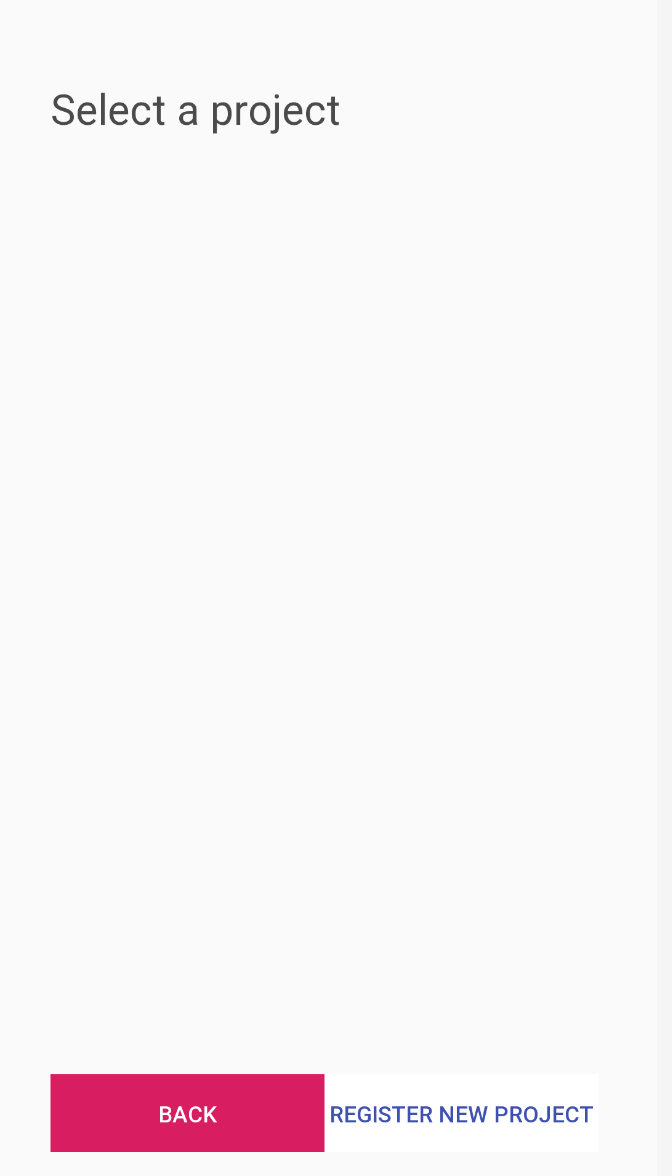
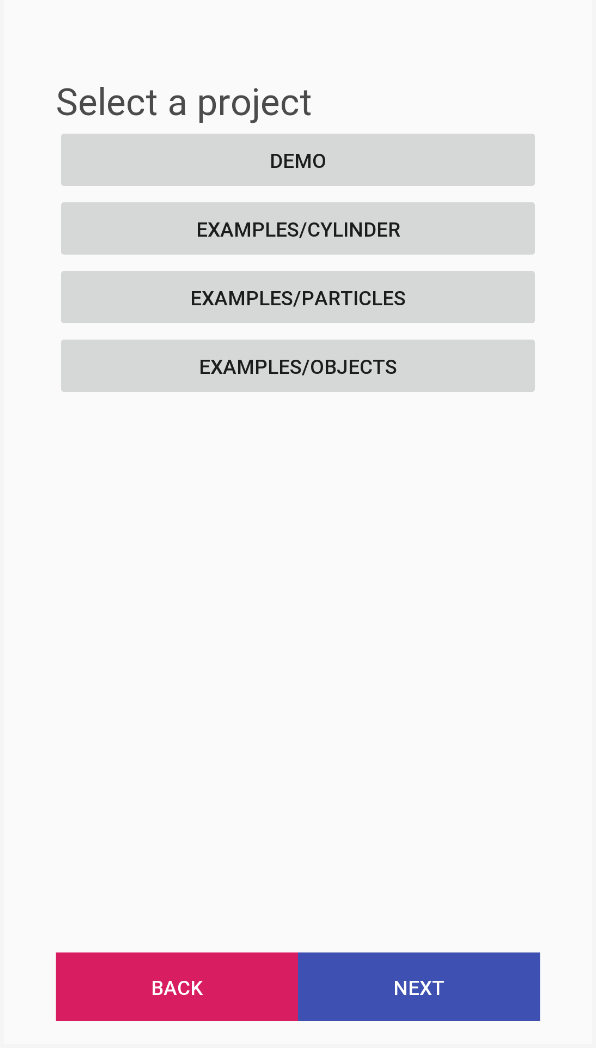
Adapting new installation instructions

Changed region(s): [[0.0604, 0.0611, 0.906, 0.3969], [0.0604, 0.8855, 0.906, 1.0]]

diff --git a/README.md b/README.md
@@ -151,7 +151,7 @@ If there is problems running the last command try typing npm install -g nodemon
 * Being able to SSH to machine. 
 * Android device with at least the KitKat version
 
-* Download the app i: https://drive.google.com/file/d/15LZfCakYCRCmlKxijxa1iCYykL5pr35O/view?usp=sharing
+* Download the app in: https://drive.google.com/drive/folders/15Zdks4OuHtfNjNBILYXr5axL7HoKTnnp?usp=sharing
 
 ### How to use
 
@@ -166,9 +166,15 @@ To launch a server in a machine click on the top screen in the android app. The 
 
 Fill the information appropriately for each machine.
 
+<img src="img/register_repository.png" width="230">
+
+Fill with the complete path in your **Master** of this repository.
+
 <img src="img/project.png" width="230">
 
-After filling the needed information, the app will go into the projects window. Here the list of projects registered would appear. You can register projects by clicking the "Register project" button
+After filling the needed information, the app will go into the projects window where the sample projects would appear. The "Demo" button would make the app follow steps of action that could showcase all three sample animations and the different user control functionalities, which would end in the "killing" of the server and disconnection of the machine 
+
+Other projects registered would appear. You can register projects by clicking the "Register project" button. 
 
 <img src="img/register_project.png" width="230">
 
